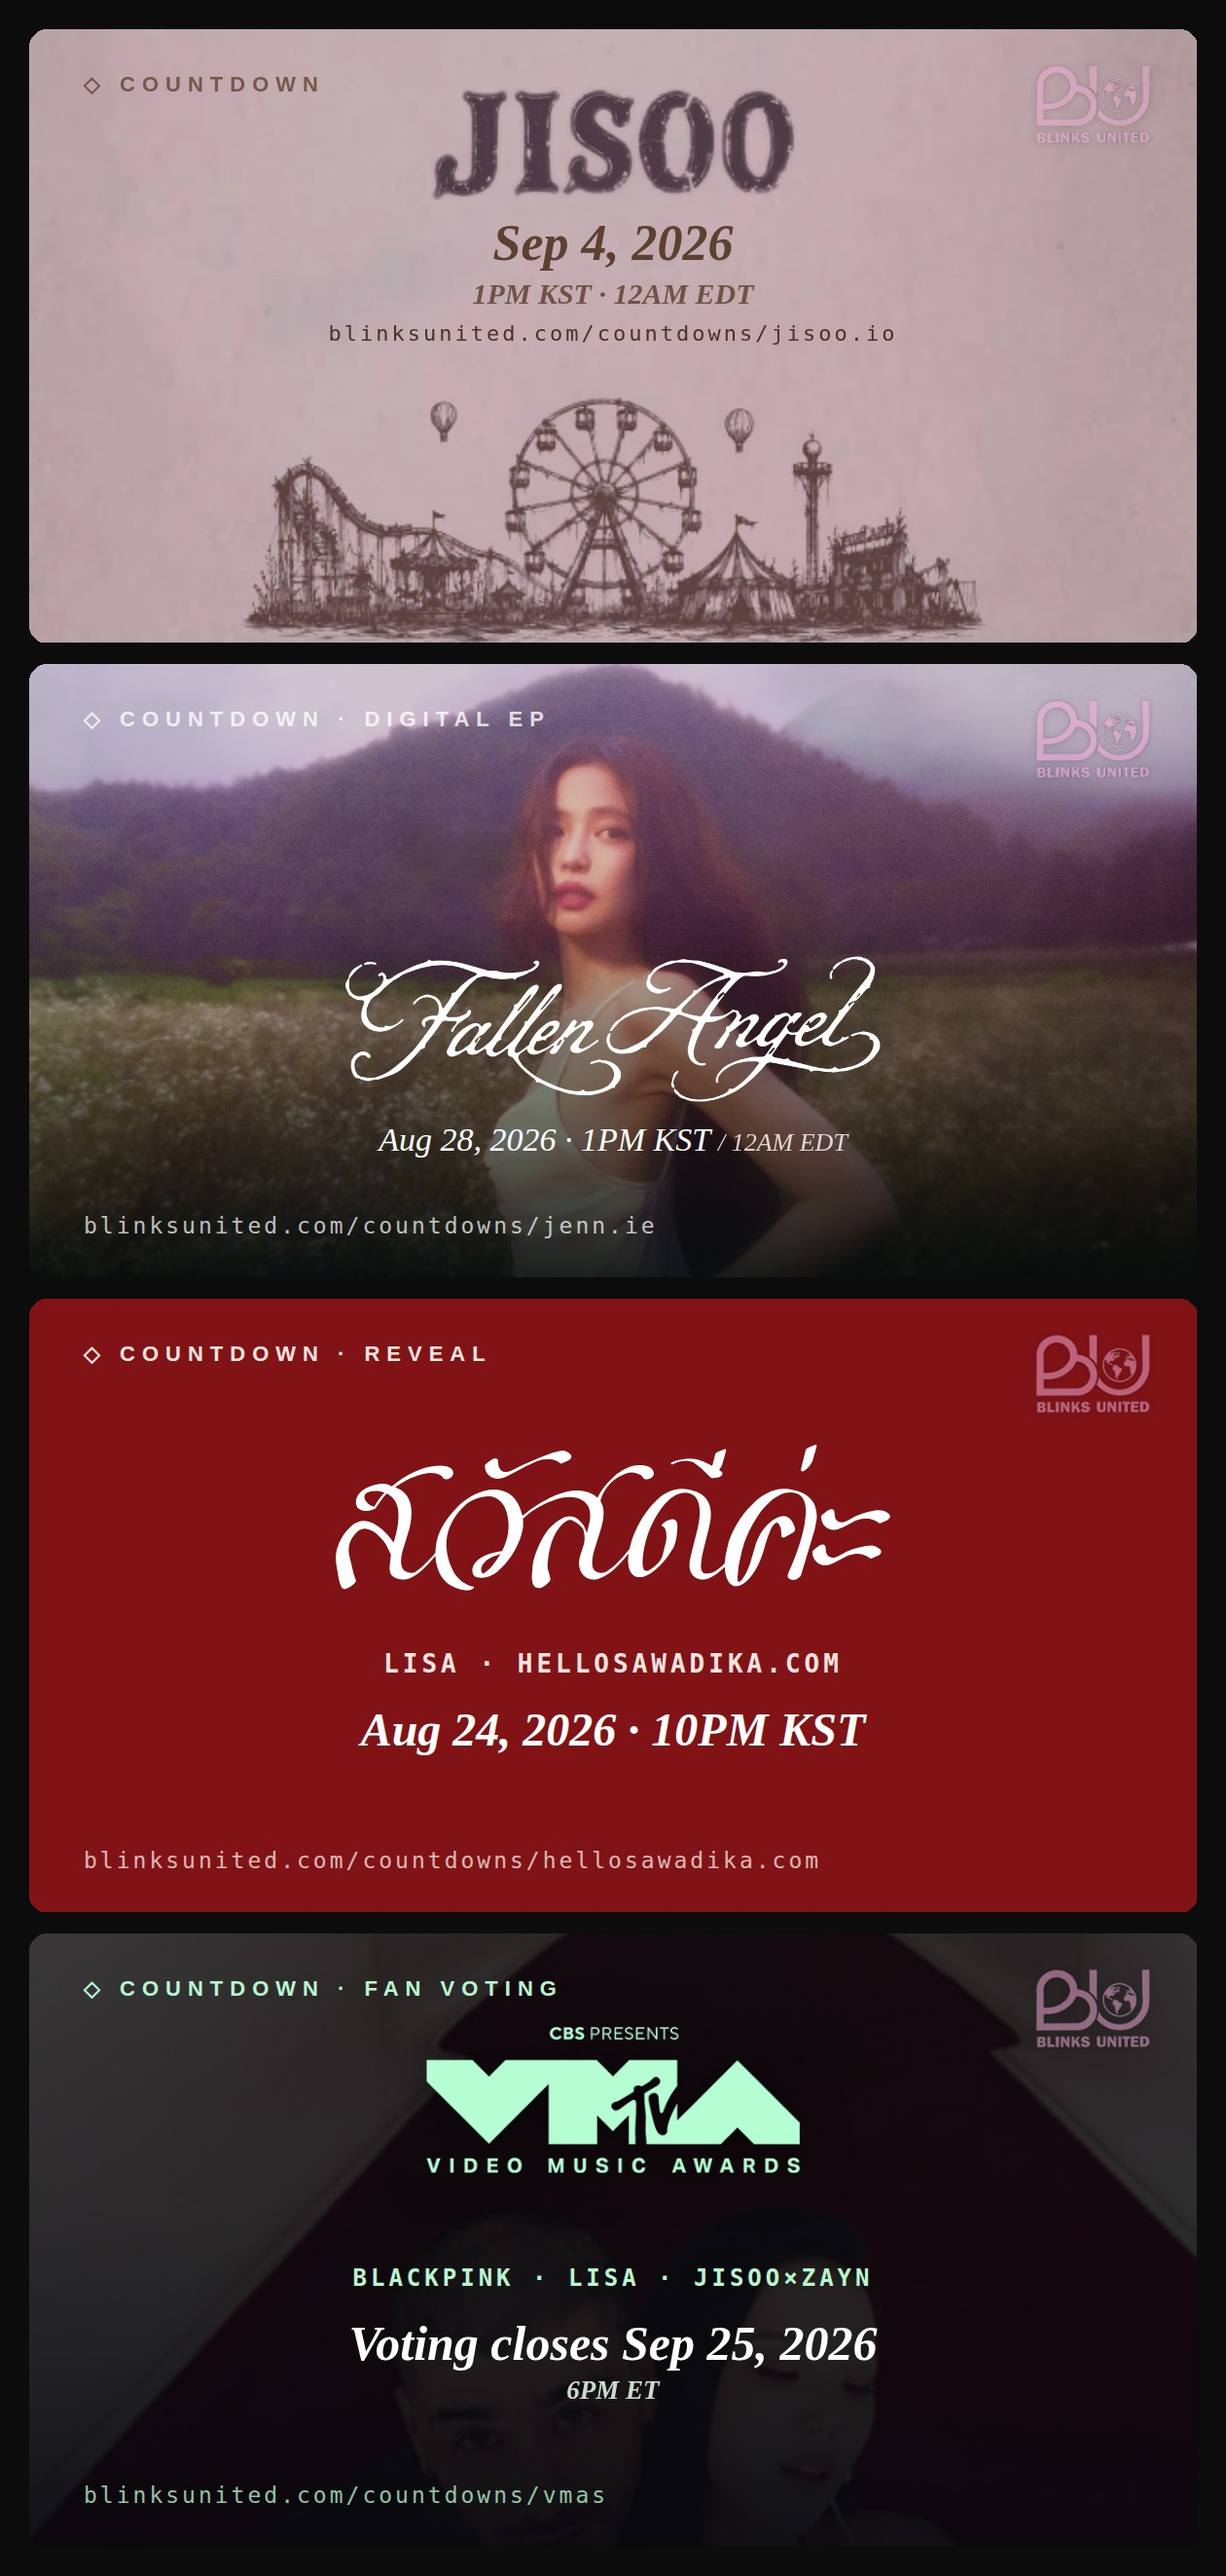
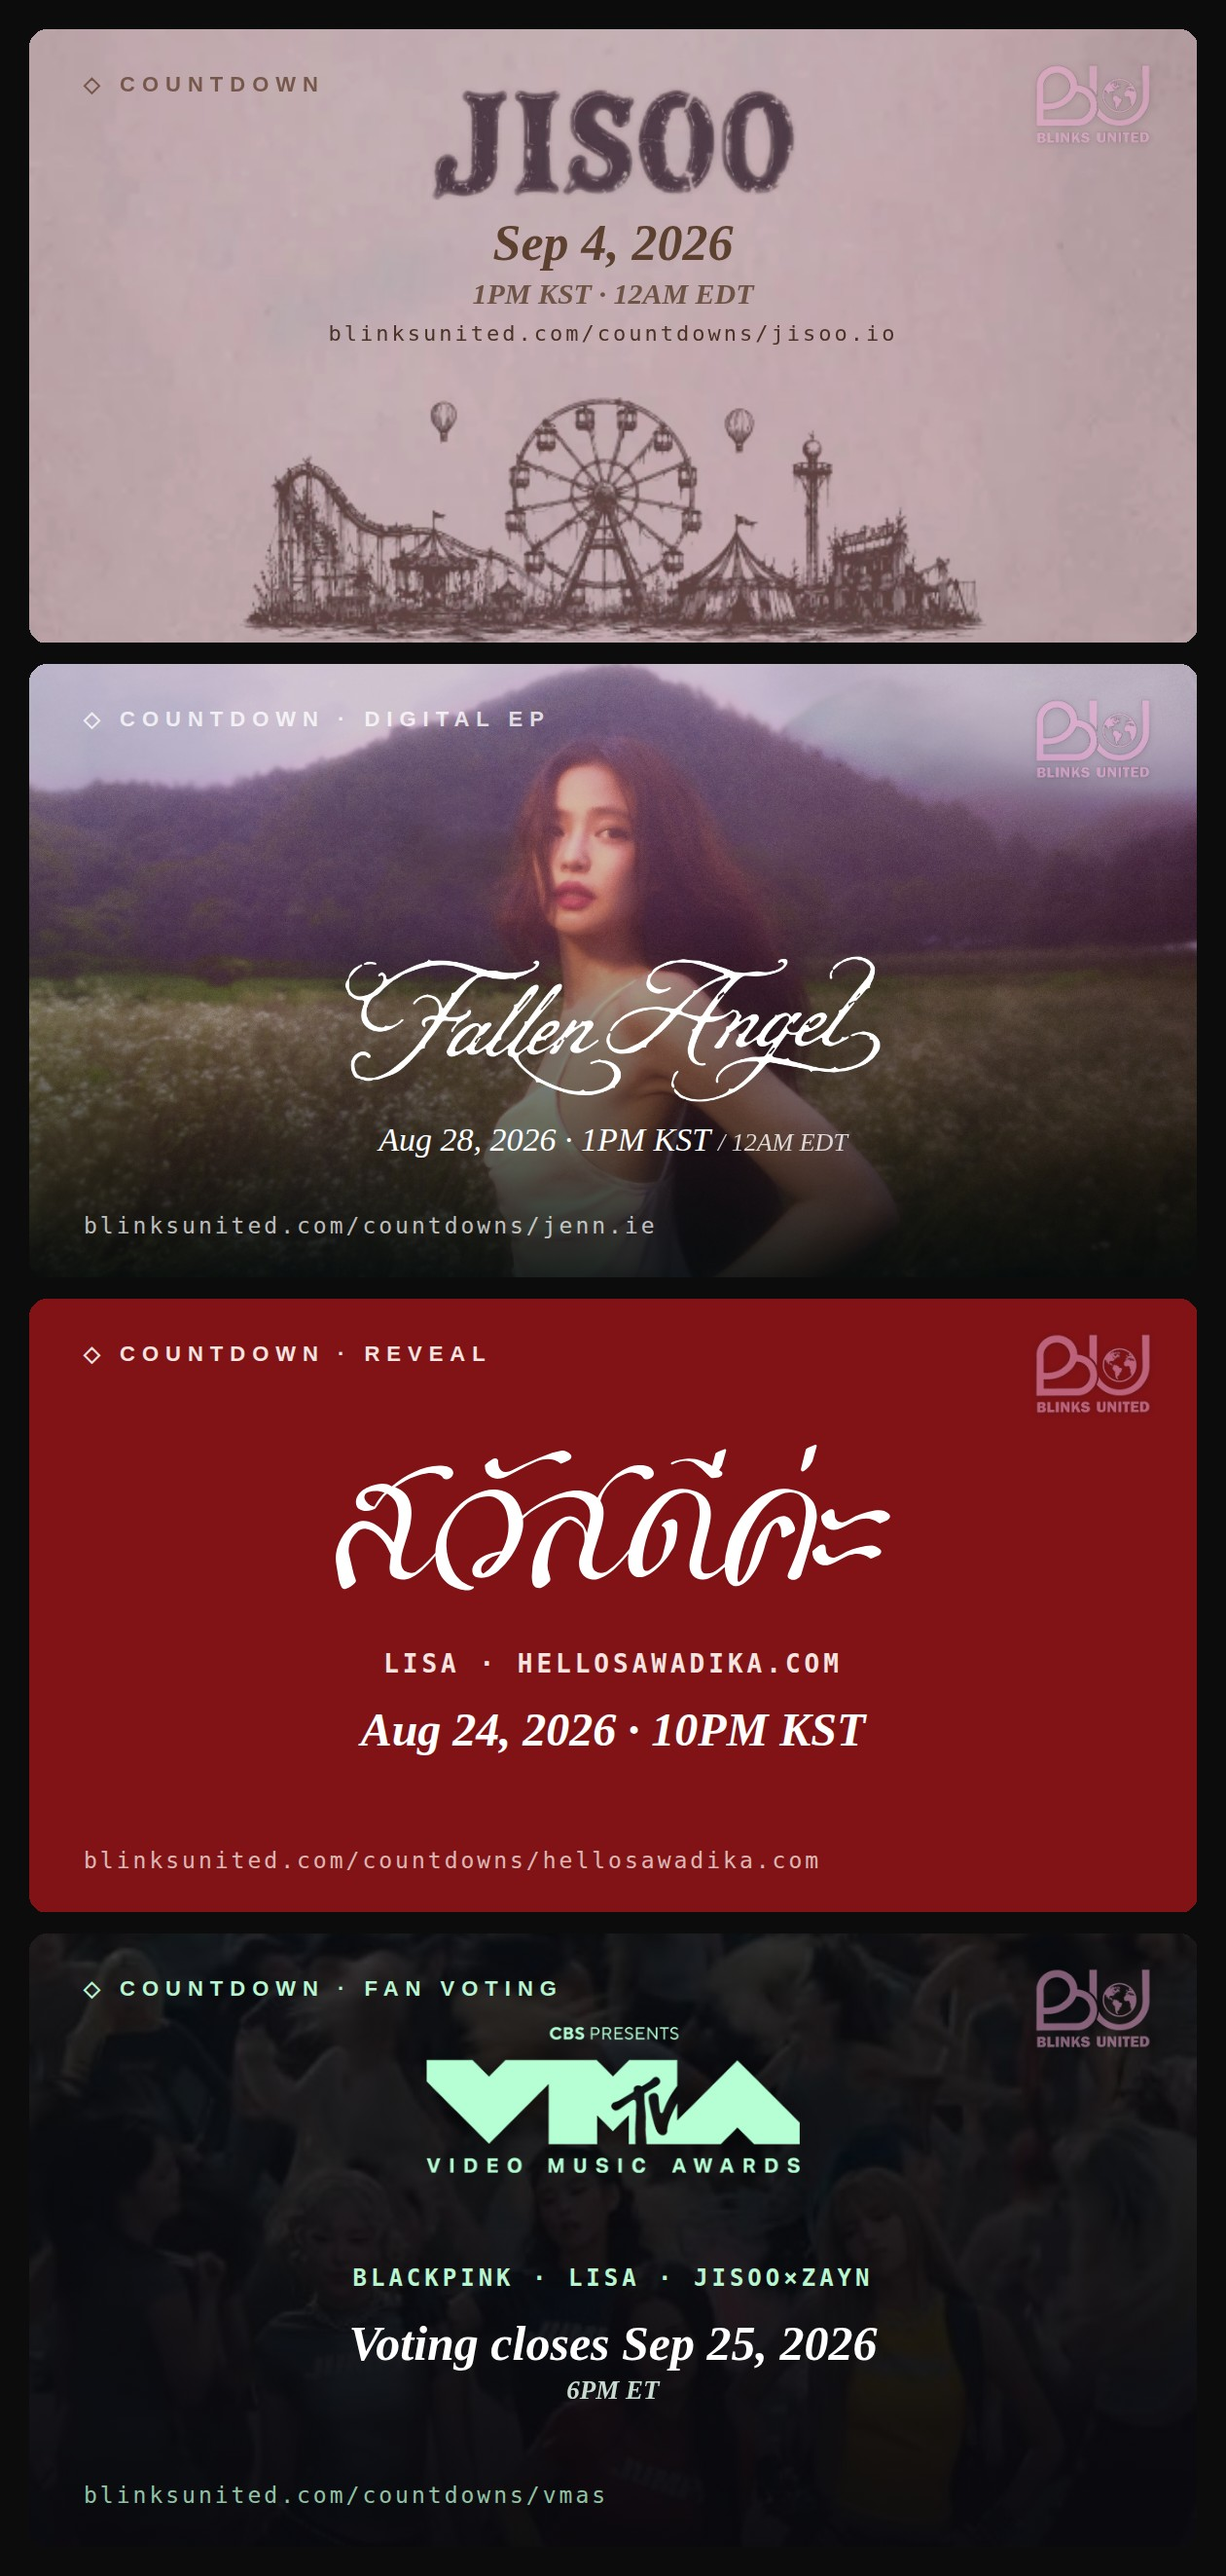
VMA card: swipeable/auto-rotating photo carousel (jump → dream → eyes closed)
- VMA card background is now a carousel starting on the JUMP photo, auto-
  rotating through dream and eyes-closed every ~4.5s, swipeable by touch,
  with dot indicators. initVmaCarousels() wires it up.
- VMA link-preview image + collage switched to the jump photo.

Claude-Session: https://claude.ai/code/session_014CHDuXJjZkYDUErR9GwEuA

Changed region(s): [[0.0, 0.7438, 0.4952, 0.8987], [0.8048, 0.7438, 0.9905, 0.8677], [0.5881, 0.7438, 0.681, 0.8057]]

diff --git a/index.html b/index.html
@@ -1632,8 +1632,15 @@
   .cd-card-vma { position: relative; overflow: hidden; text-align: center; color: #fff;
     background: #08080d; border-color: rgba(184,245,208,0.28);
     box-shadow: 0 18px 50px -30px rgba(184,245,208,0.5); }
+  .cd-card-vma .vma-slides { position: absolute; inset: 0; z-index: 0; touch-action: pan-y; }
   .cd-card-vma .vma-bg { position: absolute; inset: 0; width: 100%; height: 100%; object-fit: cover;
-    object-position: center 28%; opacity: 0.5; z-index: 0; }
+    object-position: center 28%; opacity: 0; transition: opacity 0.8s ease; z-index: 0; -webkit-user-drag: none; }
+  .cd-card-vma .vma-bg.is-on { opacity: 0.5; }
+  .cd-card-vma .vma-dots { position: absolute; top: 0.6rem; left: 0; right: 0; z-index: 3;
+    display: flex; justify-content: center; gap: 5px; pointer-events: none; }
+  .cd-card-vma .vma-dot { width: 7px; height: 7px; border-radius: 50%; background: rgba(255,255,255,0.4);
+    transition: background 0.3s ease; }
+  .cd-card-vma .vma-dot.is-on { background: #b8f5d0; }
   .cd-card-vma .vma-scrim { position: absolute; inset: 0; z-index: 1;
     background: linear-gradient(180deg, rgba(8,8,13,0.55) 0%, rgba(8,8,13,0.6) 45%, rgba(8,8,13,0.86) 100%); }
   .cd-card-vma > *:not(.vma-bg):not(.vma-scrim) { position: relative; z-index: 2; }
@@ -2334,8 +2341,13 @@
             </div>
           </div>
           <div class="cd-card cd-card-vma" data-slug="vmas" data-target="2026-09-25T22:00:00Z" data-live="VOTING CLOSED">
-            <img class="vma-bg" src="/vote-vma-eyesclosed.jpeg" alt="" loading="lazy" onerror="this.style.display='none'">
+            <div class="vma-slides" data-vma-carousel>
+              <img class="vma-bg is-on" src="/vote-vma-jump.jpeg" alt="" loading="lazy" onerror="this.style.display='none'">
+              <img class="vma-bg" src="/vote-vma-dream.jpg" alt="" loading="lazy" onerror="this.style.display='none'">
+              <img class="vma-bg" src="/vote-vma-eyesclosed.jpeg" alt="" loading="lazy" onerror="this.style.display='none'">
+            </div>
             <div class="vma-scrim"></div>
+            <div class="vma-dots" aria-hidden="true"><span class="vma-dot is-on"></span><span class="vma-dot"></span><span class="vma-dot"></span></div>
             <img class="vma-logo" src="/vmas.png" alt="MTV Video Music Awards" onerror="this.replaceWith(Object.assign(document.createElement('div'),{className:'cd-title',textContent:'MTV VMAs'}))">
             <div class="cd-eyebrow">2026 · Fan Voting Closes</div>
             <div class="cd-timer" data-timer></div>
@@ -4625,6 +4637,7 @@ window.addEventListener('DOMContentLoaded', () => {
   setInterval(renderReleaseCountdown, 1000);
   renderHomeCountdowns();
   setInterval(renderHomeCountdowns, 1000);
+  initVmaCarousels();
   loadJennieSaveCount();
   loadFaSaveCount();
   loadLisaSaveCount();
@@ -10967,6 +10980,32 @@ const JENNIE_RELEASE = {
 
 // Home-page release/reveal countdown cards (#home-countdowns). Each card carries a
 // data-target ISO timestamp; on reach, it flips to the card's data-live label.
+// VMA card background: auto-rotating + swipeable carousel (jump → dream → eyes closed).
+function initVmaCarousels() {
+  document.querySelectorAll('[data-vma-carousel]').forEach(box => {
+    if (box._vmaInit) return; box._vmaInit = true;
+    const slides = [...box.querySelectorAll('.vma-bg')];
+    const dots = [...(box.parentElement?.querySelectorAll('.vma-dot') || [])];
+    if (slides.length < 2) return;
+    let i = 0, timer = null;
+    const show = (n) => {
+      i = (n % slides.length + slides.length) % slides.length;
+      slides.forEach((s, k) => s.classList.toggle('is-on', k === i));
+      dots.forEach((d, k) => d.classList.toggle('is-on', k === i));
+    };
+    const start = () => { stop(); timer = setInterval(() => show(i + 1), 4500); };
+    const stop = () => { if (timer) { clearInterval(timer); timer = null; } };
+    start();
+    let x0 = null;
+    box.addEventListener('pointerdown', (e) => { x0 = e.clientX; }, { passive: true });
+    box.addEventListener('pointerup', (e) => {
+      if (x0 == null) return;
+      const dx = e.clientX - x0; x0 = null;
+      if (Math.abs(dx) > 40) { show(i + (dx < 0 ? 1 : -1)); start(); }
+    }, { passive: true });
+  });
+}
+
 function renderHomeCountdowns() {
   const now = Date.now();
   document.querySelectorAll('#home-countdowns .cd-card[data-target]').forEach(card => {
